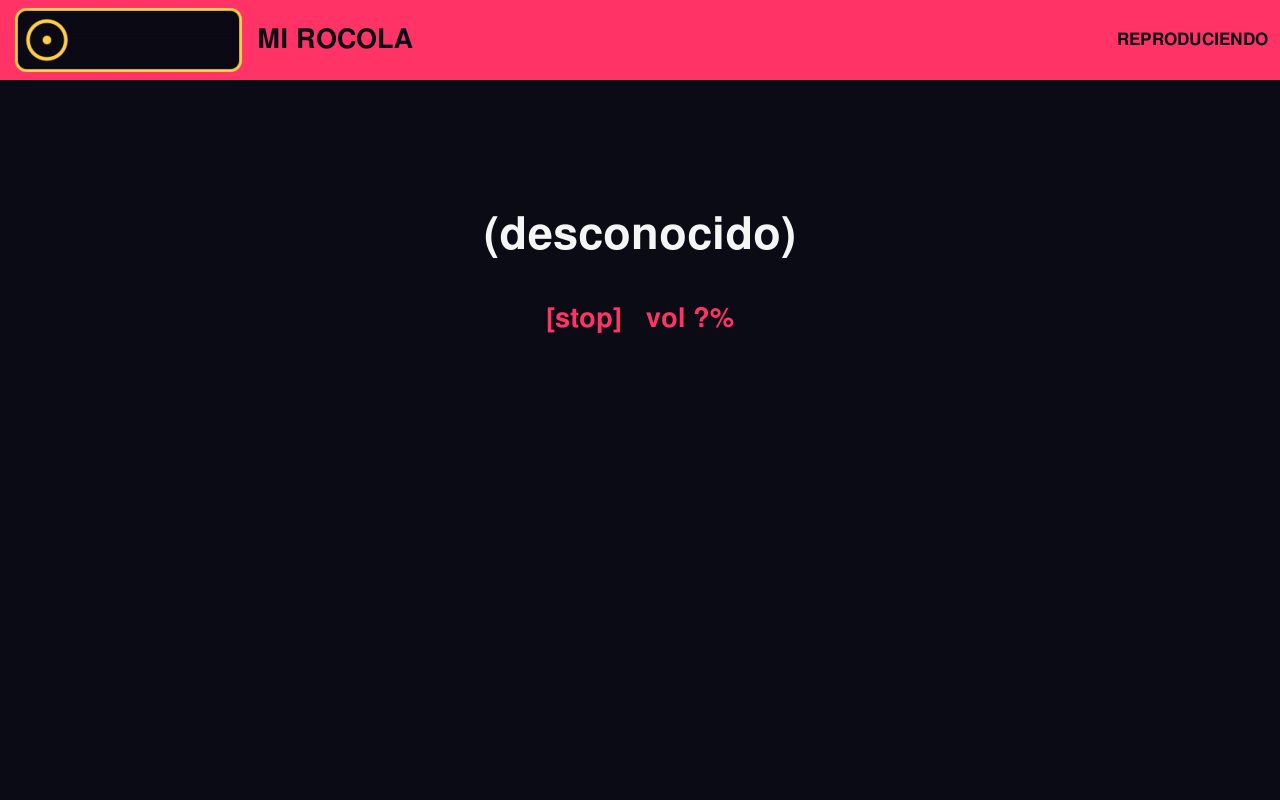
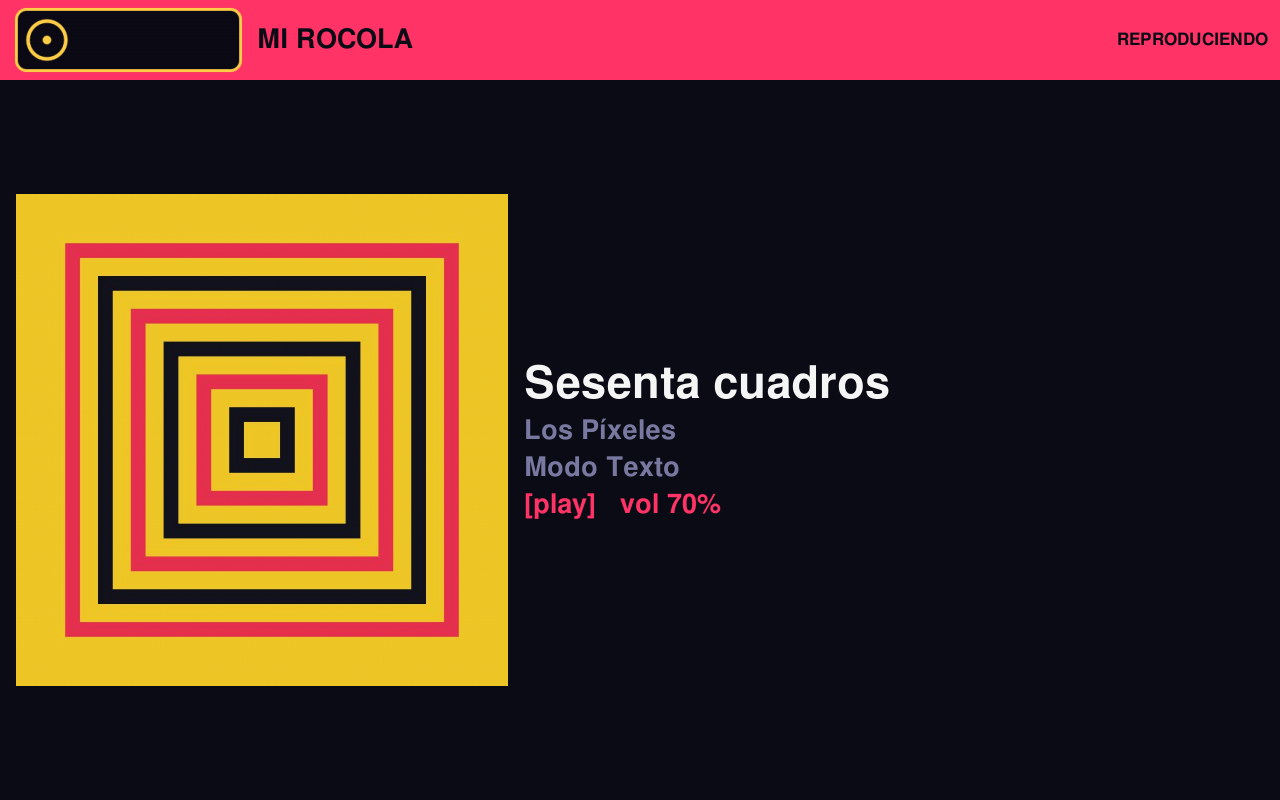
docs: screenshots of the library and of now playing with a cover
Taken with the app in the image (pygame 2.1.2, MPD 0.23.12) at 1280x800,
over an invented demo library imported from a folder with Folder.jpg
covers. The README shows the four screens.

Changed region(s): [[0.0, 0.2188, 0.7188, 0.875]]

diff --git a/README.md b/README.md
@@ -10,9 +10,13 @@ a guided installer **clones** the system to the internal disk, so the machine be
 jukebox that **starts on power-on**, is driven with **arcade controls**, and works on **modern
 monitors and CRTs**, including 15 kHz arcade/TV screens.
 
-| Now playing | Menu |
+| Library | Now playing |
 |---|---|
-| ![Now playing screen](docs/screenshots/ui-nowplaying.png) | ![Menu screen](docs/screenshots/ui-menu.png) |
+| ![Library by artist](docs/screenshots/ui-library.png) | ![Now playing screen with the album cover](docs/screenshots/ui-nowplaying.png) |
+| **Menu** | **Controls test** |
+| ![Menu screen](docs/screenshots/ui-menu.png) | ![Controls test screen](docs/screenshots/ui-inputtest.png) |
+
+The screenshots use an invented demo library.
 
 ## Features
 
